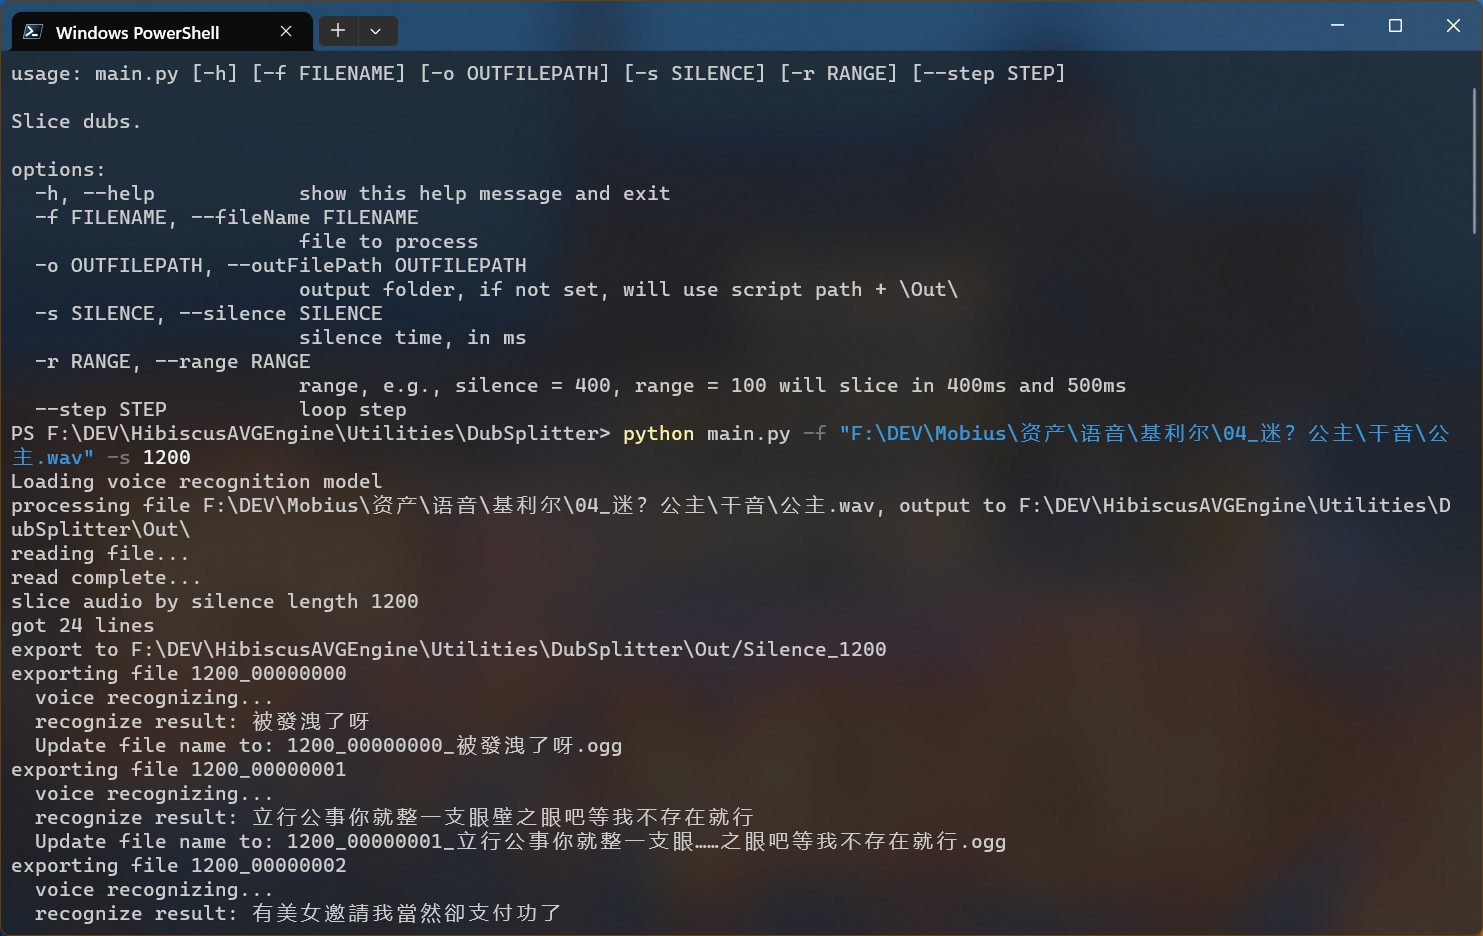
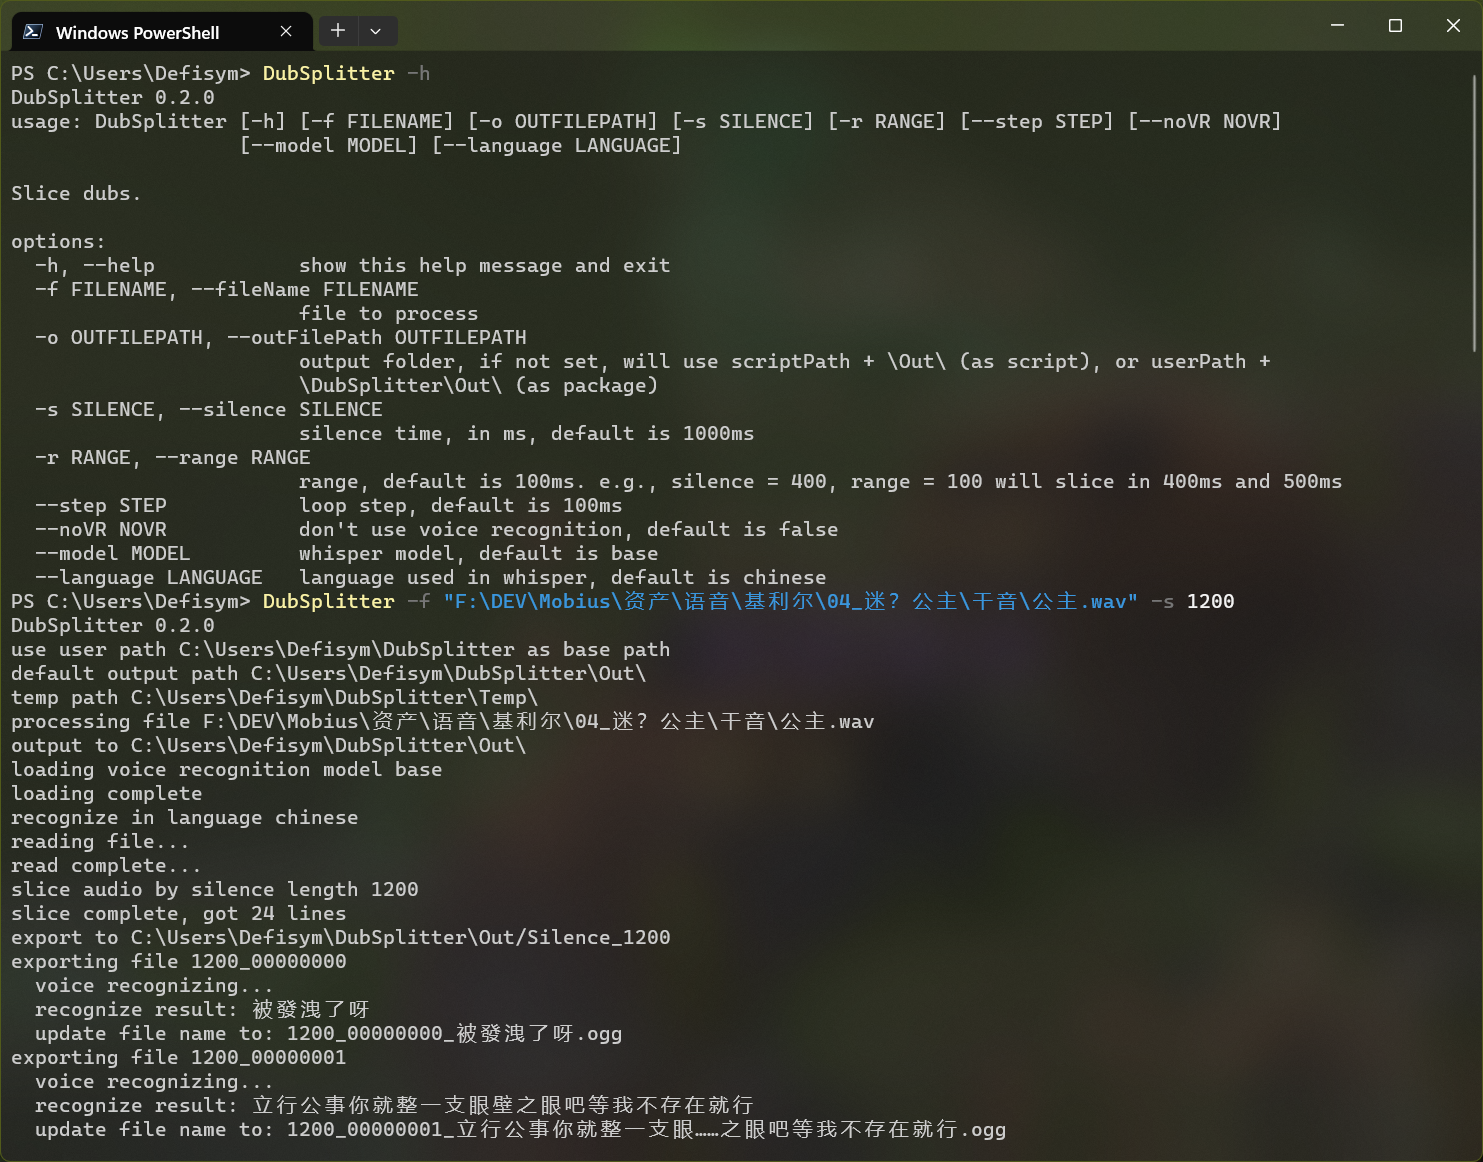
### 230407 0.2.0
### 230407 0.2.0

- print version when boot

diff --git a/Utilities/DubSplitter/dubSplitter/dubSplitter.py b/Utilities/DubSplitter/dubSplitter/dubSplitter.py
@@ -4,10 +4,13 @@ from pydub import AudioSegment
 from sympy import false, true
 
 import dubSplitter.constants as consts
-
 from .constants import update_path
 from .functions.slicer import do_slice
 from .functions.voiceRecognition import update_whisper_model, update_model_language
+
+VERSION = '0.2.0'
+
+print('DubSplitter {}'.format(VERSION))
 
 bFromPackage = true
 

diff --git a/Utilities/DubSplitter/setup.py b/Utilities/DubSplitter/setup.py
@@ -1,7 +1,7 @@
 from setuptools import find_packages
 from setuptools import setup
 
-VERSION = '0.1.2'
+from dubSplitter.dubSplitter import VERSION
 
 with open('ReadMe.md') as f:
     LONG_DESCRIPTION = f.read()

diff --git a/Utilities/DubSplitter/ReadMe.md b/Utilities/DubSplitter/ReadMe.md
@@ -16,16 +16,36 @@ an easy tool to split dubs based on given silence
 | -r, --range       | option | range, default is `100`ms. e.g., silence = `400`, range = `100` will slice in `400`ms and `500`ms                         |
 | --step            | option | loop step, default is `100`ms                                                                                             |
 | --noVR            | option | don't use voice recognition, default is `false`                                                                           |
-| --step            | option | whisper model, default is `base`                                                                                          |
-| --step            | option | language used in whisper, default is `chinese`                                                                            |
+| --model           | option | whisper model, default is `base`                                                                                          |
+| --language        | option | language used in whisper, default is `chinese`                                                                            |
 
 ## Usage
 
 open folder in terminal, then run `python main.py`
 
-or use command `pip install DubSplitter` to install [package](https://pypi.org/project/DubSplitter/), then run `dubSplitter`
+or use command `pip install DubSplitter` to install [package](https://pypi.org/project/DubSplitter/), then
+run `dubSplitter`
+
+## Note
+
+if whisper doesn't use GPU, you need to uninstall CPU version first then install GPU version
+
+```shell
+pip uninstall torch
+pip cache purge
+# from https://pytorch.org/get-started/locally/
+pip3 install torch torchvision torchaudio --index-url https://download.pytorch.org/whl/cu117
+```
 
 ## Changelog
+
+### 230407 0.2.0
+
+- print version when boot
+
+### 230407 0.1.3
+
+- fix typo
 
 ### 230407 0.1.2
 
